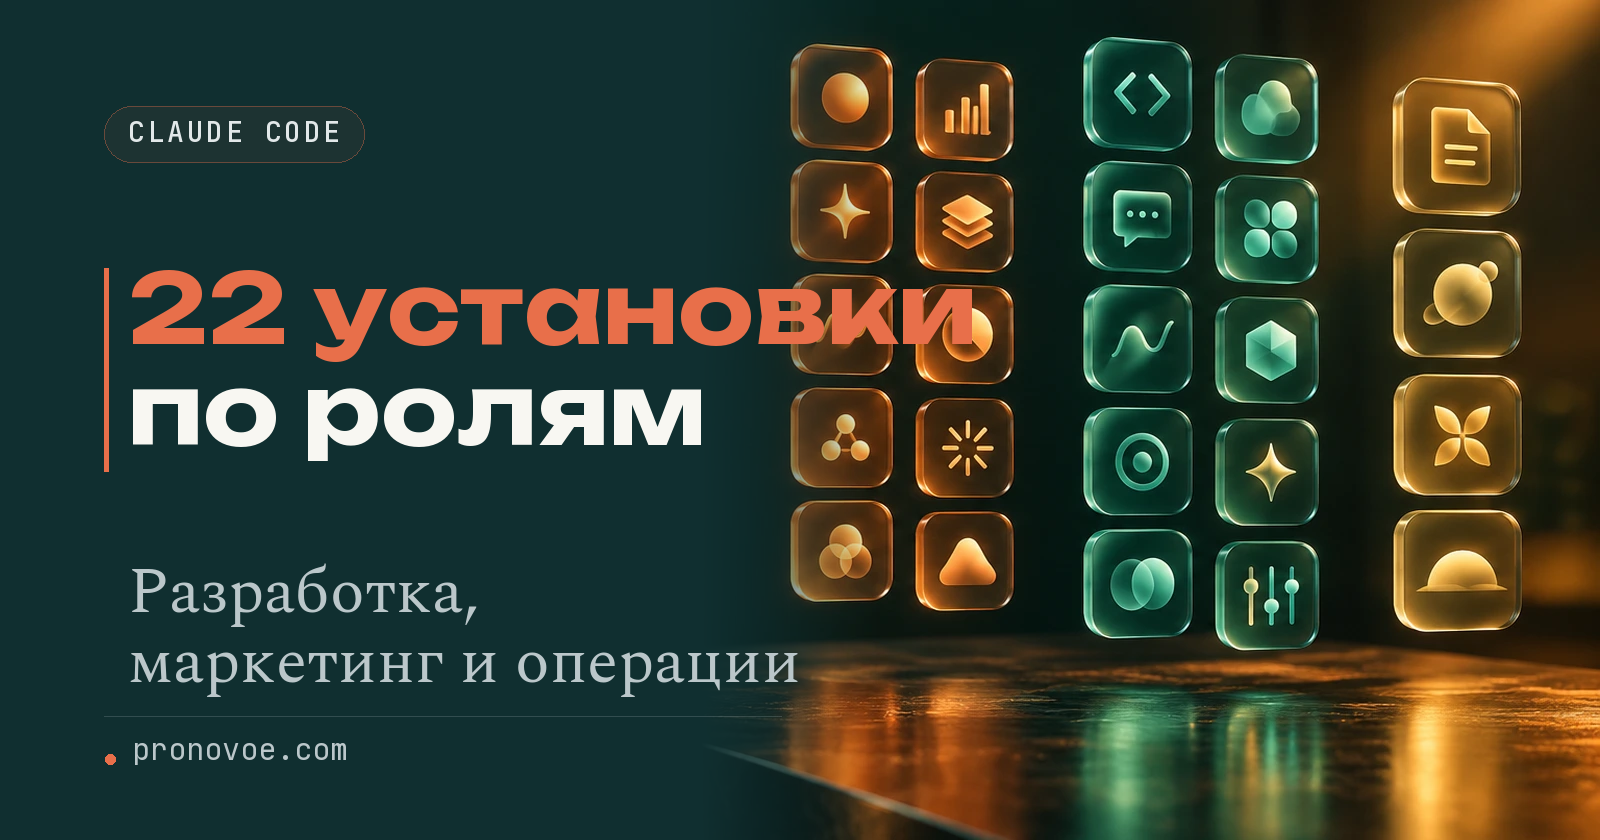
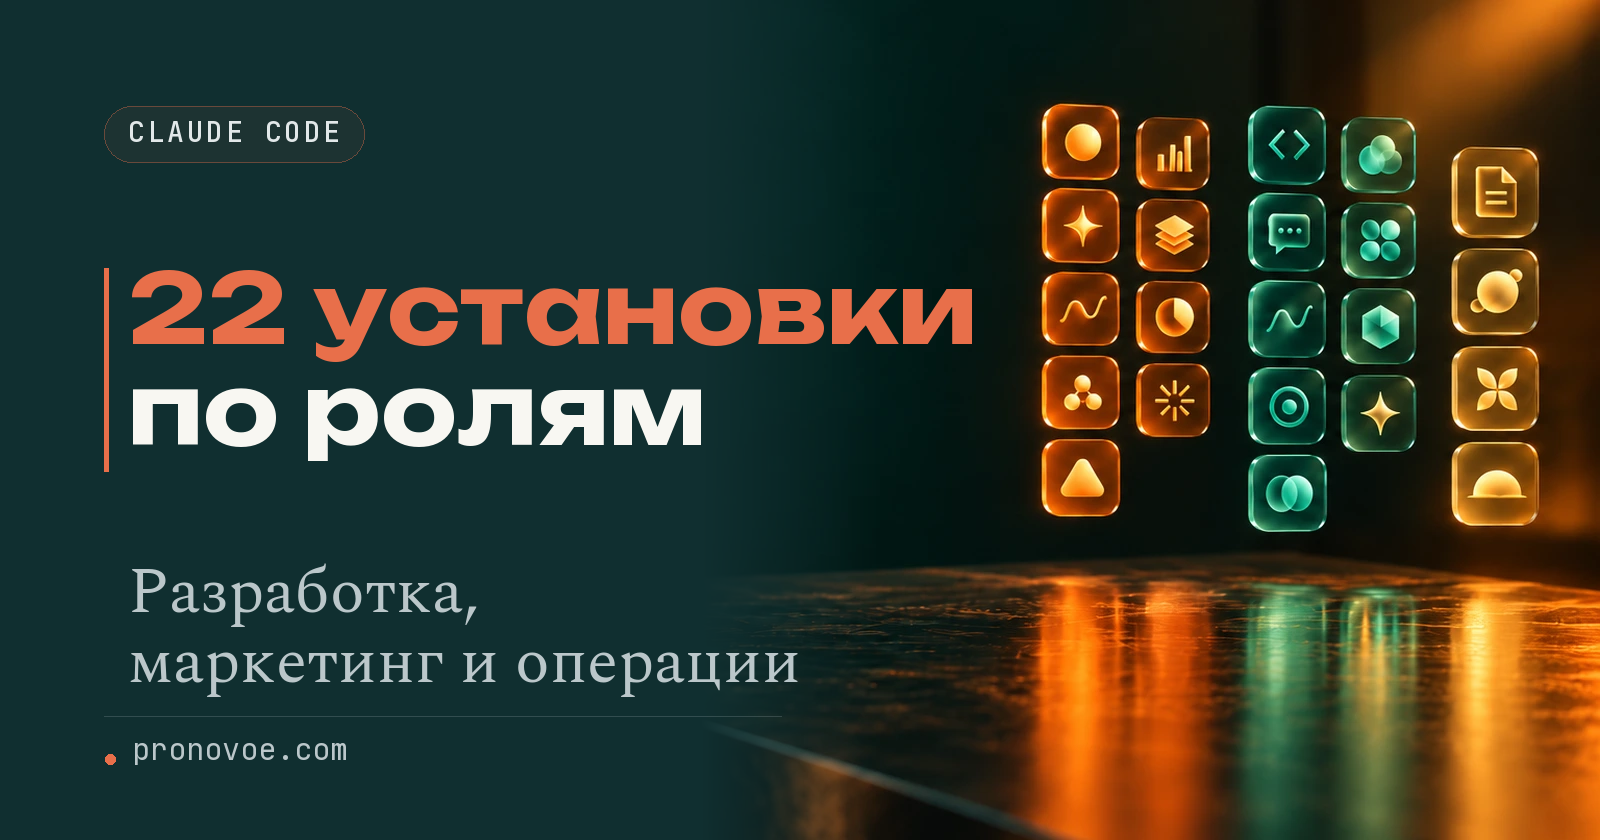
Статья 22 установки: обложка по канону, сцена из ChatGPT, 22 плитки 9/9/4

diff --git a/claude-ai/22-ustanovki-claude-code/index.html b/claude-ai/22-ustanovki-claude-code/index.html
@@ -17,7 +17,7 @@
 <meta property="og:description" content="22 дополнения для Claude Code по ролям: разработка, маркетинг и операции. Актуальные команды установки, требования, ошибки и набор без новых оплат" />
 <meta property="og:url" content="https://pronovoe.com/claude-ai/22-ustanovki-claude-code/" />
 <meta property="og:image" content="https://pronovoe.com/claude-ai/22-ustanovki-claude-code/assets/oblozhka.webp" />
-<meta property="og:image:alt" content="Обложка «22 установки Claude Code по ролям» с ведущей на светлом фоне" />
+<meta property="og:image:alt" content="Обложка «22 установки по ролям»: светящиеся стеклянные плитки тремя группами на тёмно-зелёном фоне" />
 <meta property="og:image:width" content="1600" />
 <meta property="og:image:height" content="840" />
 <meta property="article:published_time" content="2026-10-19" />
@@ -27,7 +27,7 @@
 <meta name="twitter:title" content="22 установки Claude Code по ролям: что поставить" />
 <meta name="twitter:description" content="22 дополнения для Claude Code по ролям: разработка, маркетинг и операции. Актуальные команды установки, требования, ошибки и набор без новых оплат" />
 <meta name="twitter:image" content="https://pronovoe.com/claude-ai/22-ustanovki-claude-code/assets/oblozhka.webp" />
-<meta name="twitter:image:alt" content="Обложка «22 установки Claude Code по ролям» с ведущей на светлом фоне" />
+<meta name="twitter:image:alt" content="Обложка «22 установки по ролям»: светящиеся стеклянные плитки тремя группами на тёмно-зелёном фоне" />
 
 <link rel="preload" href="/assets/fonts/unbounded-700.woff2" as="font" type="font/woff2" crossorigin>
 <link rel="preload" href="/assets/fonts/spectral-400.woff2" as="font" type="font/woff2" crossorigin>
@@ -1322,7 +1322,7 @@ html { scroll-padding-bottom: calc(var(--cookie-height, 0px) + 16px) }
 <main><article>
 <nav class="breadcrumbs" aria-label="Хлебные крошки"><ol><li><a href="/">Главная</a></li><li><span aria-current="page">22 установки Claude Code по ролям</span></li></ol></nav>
 <header id="nachalo">
-<figure class="cover cover-v2"><img src="assets/oblozhka.webp" width="1600" height="840" alt="Обложка «22 установки Claude Code по ролям» с ведущей на светлом фоне" loading="eager" decoding="async" fetchpriority="high"><figcaption>22 дополнения для разработки, маркетинга и операций с актуальными командами установки</figcaption></figure>
+<figure class="cover cover-v2"><img src="assets/oblozhka.webp" width="1600" height="840" alt="Обложка «22 установки по ролям»: светящиеся стеклянные плитки тремя группами на тёмно-зелёном фоне" loading="eager" decoding="async" fetchpriority="high"><figcaption>22 дополнения для разработки, маркетинга и операций с актуальными командами установки</figcaption></figure>
 <h1 class="article-standard-h1">22 установки Claude Code: что поставить по ролям</h1>
 <p class="uroven-metka blue" style="display:inline-block;margin:16px 0 0;padding:5px 12px;border-radius:999px;background:var(--guide-color-info-paper);color:var(--guide-color-info-ink);font:700 13px/1.3 -apple-system,BlinkMacSystemFont,&quot;Segoe UI&quot;,Arial,sans-serif">Начальный уровень</p>
 <p class="lead">Дополнений к Claude Code столько, что их можно ставить неделю. А потом всё стоит, и непонятно, что из этого запускать под свою задачу. Поэтому здесь они разложены не по популярности и не по звёздам на GitHub, а по работе: код, контент, документы и память проекта</p>
